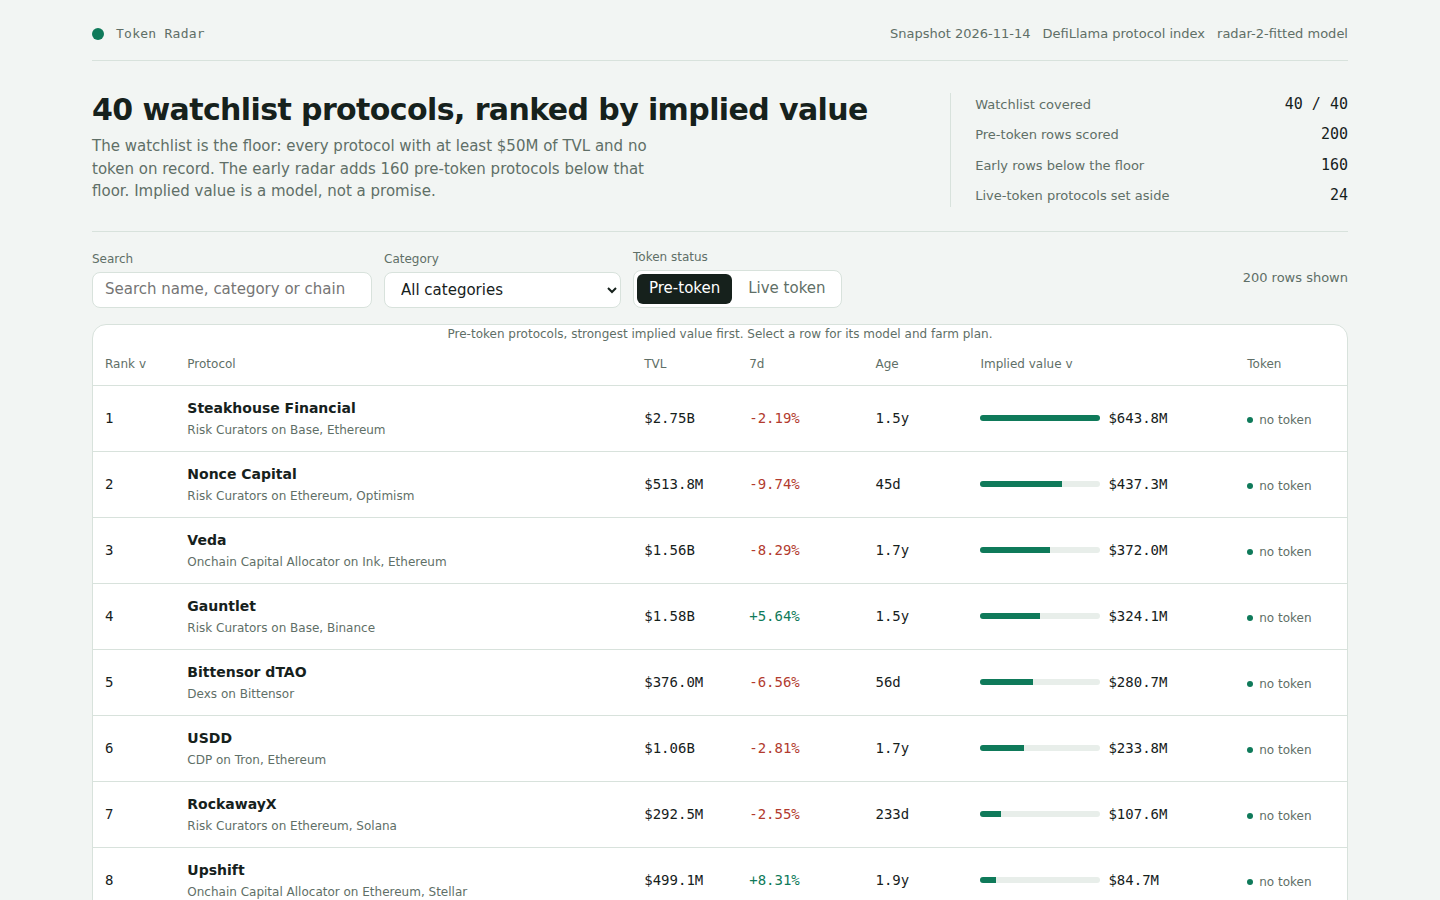
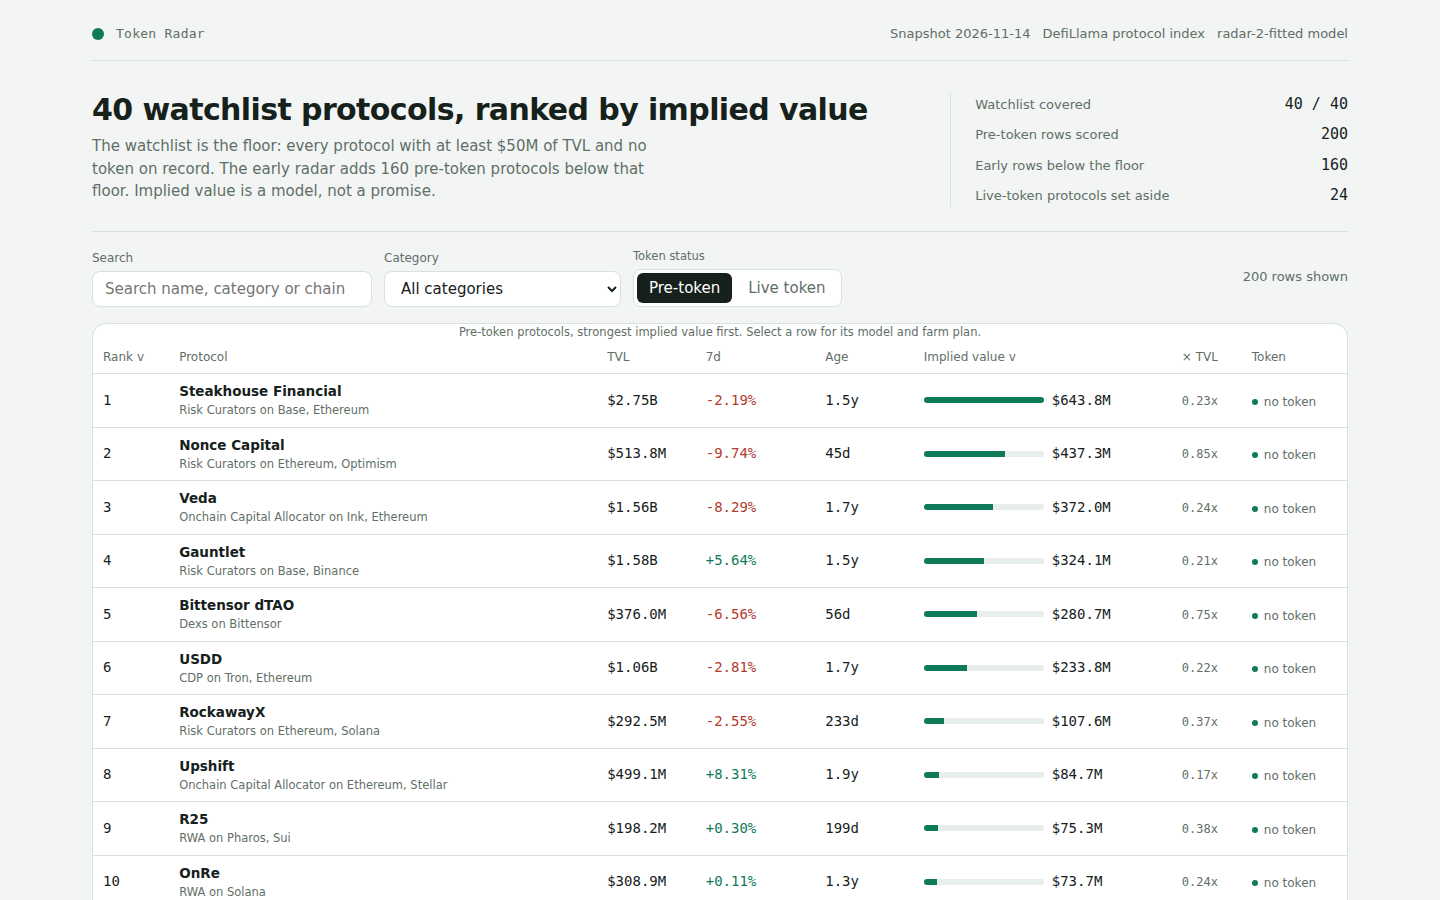
iteration 3: log-log scatter panel, x TVL column, compact rows, 4 screenshots incl. tools/screenshots.py

diff --git a/dashboard/app.js b/dashboard/app.js
@@ -209,6 +209,77 @@
     );
   }
 
+  // Log-log scatter: every board row's TVL against its implied value, with guide lines for whole
+  // TVL multiples (0.1x, 0.3x, 1x, 3x). Drawn from the same rows the table shows, so the picture
+  // and the numbers cannot disagree. Watchlist rows sit above the $50M floor; early rows below.
+  function scatterChart() {
+    var NS = 'http://www.w3.org/2000/svg';
+    function svgEl(tag, attrs) {
+      var n = document.createElementNS(NS, tag);
+      Object.keys(attrs || {}).forEach(function (k) { n.setAttribute(k, attrs[k]); });
+      return n;
+    }
+    var W = 1240, H = 340, ML = 64, MR = 16, MT = 14, MB = 40;
+    var pts = DATA.rows.filter(function (r) { return r.tvl_usd > 0 && r.implied_value_usd > 0; });
+    var xmin = Infinity, xmax = -Infinity, ymin = Infinity, ymax = -Infinity;
+    pts.forEach(function (r) {
+      var x = Math.log10(r.tvl_usd), y = Math.log10(r.implied_value_usd);
+      if (x < xmin) xmin = x; if (x > xmax) xmax = x;
+      if (y < ymin) ymin = y; if (y > ymax) ymax = y;
+    });
+    xmin = Math.floor(xmin); xmax = Math.ceil(xmax); ymin = Math.floor(ymin); ymax = Math.ceil(ymax);
+    function X(v) { return ML + (Math.log10(v) - xmin) / (xmax - xmin) * (W - ML - MR); }
+    function Y(v) { return H - MB - (Math.log10(v) - ymin) / (ymax - ymin) * (H - MT - MB); }
+    var svg = svgEl('svg', { viewBox: '0 0 ' + W + ' ' + H, role: 'img', 'aria-label': 'Scatter of TVL against implied value, log scale' });
+    // grid + tick labels per decade
+    for (var d = xmin; d <= xmax; d++) {
+      var v = Math.pow(10, d);
+      svg.appendChild(svgEl('line', { x1: X(v), y1: MT, x2: X(v), y2: H - MB, stroke: 'var(--border)', 'stroke-width': 1 }));
+      var t = svgEl('text', { x: X(v), y: H - MB + 16, 'text-anchor': 'middle', 'font-size': 11, fill: 'var(--muted)' });
+      t.textContent = '$' + (v >= 1e9 ? v / 1e9 + 'B' : v >= 1e6 ? v / 1e6 + 'M' : v / 1e3 + 'K');
+      svg.appendChild(t);
+    }
+    for (var e = ymin; e <= ymax; e++) {
+      var ev = Math.pow(10, e);
+      svg.appendChild(svgEl('line', { x1: ML, y1: Y(ev), x2: W - MR, y2: Y(ev), stroke: 'var(--border)', 'stroke-width': 1 }));
+      var t2 = svgEl('text', { x: ML - 6, y: Y(ev) + 4, 'text-anchor': 'end', 'font-size': 11, fill: 'var(--muted)' });
+      t2.textContent = '$' + (ev >= 1e9 ? ev / 1e9 + 'B' : ev >= 1e6 ? ev / 1e6 + 'M' : ev / 1e3 + 'K');
+      svg.appendChild(t2);
+    }
+    // multiple guide lines: implied = k x TVL
+    [0.1, 0.3, 1, 3].forEach(function (k) {
+      var yTop = Math.pow(10, ymin) * k, yBot = Math.pow(10, ymax) * k;
+      var x1 = Math.pow(10, xmin), x2 = Math.pow(10, xmax);
+      // draw only where inside the box: clip by recomputing endpoints on the visible y-range
+      var lo = Math.max(ymin, Math.log10(k * Math.pow(10, xmin)));
+      var hi = Math.min(ymax, Math.log10(k * Math.pow(10, xmax)));
+      if (hi <= lo) return;
+      var px1 = X(Math.pow(10, lo - Math.log10(k))), px2 = X(Math.pow(10, hi - Math.log10(k)));
+      svg.appendChild(svgEl('line', { x1: px1, y1: Y(Math.pow(10, lo)), x2: px2, y2: Y(Math.pow(10, hi)), stroke: 'var(--muted)', 'stroke-dasharray': '4 4', 'stroke-width': 1, opacity: 0.6 }));
+      var lab = svgEl('text', { x: px2 - 4, y: Y(Math.pow(10, hi)) - 4, 'text-anchor': 'end', 'font-size': 10, fill: 'var(--muted)' });
+      lab.textContent = k + 'x TVL';
+      svg.appendChild(lab);
+    });
+    pts.forEach(function (r) {
+      var onList = r.tvl_usd >= DATA.floor_usd;
+      svg.appendChild(svgEl('circle', {
+        cx: X(r.tvl_usd), cy: Y(r.implied_value_usd), r: r.rank <= 10 ? 5 : 3,
+        fill: onList ? 'var(--accent)' : 'color-mix(in srgb, var(--muted) 55%, transparent)',
+        opacity: onList ? 0.9 : 0.7
+      }));
+    });
+    return el('section', { class: 'panel scatter' },
+      el('h2', { text: 'The board in one picture' }),
+      el('p', { class: 'sub', text: 'Every row plotted, TVL against implied value on log scales. The dashed guides are whole TVL multiples, so a point\u2019s height over its TVL is the model\u2019s multiple. Filled dots are watchlist protocols above the $' + Math.round(DATA.floor_usd / 1e6) + 'M floor; grey dots are the early radar below it.' }),
+      svg,
+      el('div', { class: 'legend' },
+        el('span', null, el('i', { style: 'background: var(--accent)' }), 'Watchlist (TVL \u2265 floor)'),
+        el('span', null, el('i', { style: 'background: color-mix(in srgb, var(--muted) 55%, transparent)' }), 'Early radar (below the floor)'),
+        el('span', { text: 'Larger dots: current top 10' })
+      )
+    );
+  }
+
   function boardTable() {
     var list = sortedRows(rows());
     if (list.length === 0) {
@@ -241,6 +312,7 @@
           el('div', { class: 'bar', 'aria-hidden': 'true' }, el('i', { style: 'width:' + Math.max(3, Math.round((r.implied_value_usd / max) * 100)) + '%' })),
           el('span', { class: 'num', text: fmtUsd(r.implied_value_usd) })
         )),
+        el('td', null, el('span', { class: 'mult num', text: (r.implied_value_usd / r.tvl_usd).toFixed(2) + 'x', title: 'Implied value as a multiple of TVL' })),
         el('td', null, el('span', { class: 'status', text: 'no token' }))
       );
       tbody.appendChild(tr);
@@ -256,6 +328,7 @@
             sortHeader('growth', '7d'),
             sortHeader('age', 'Age'),
             sortHeader('implied', 'Implied value'),
+            el('th', { scope: 'col', title: 'Implied value as a multiple of TVL', text: '\u00d7 TVL' }),
             el('th', { scope: 'col', text: 'Token' })
           )),
           tbody
@@ -376,6 +449,7 @@
     shell.appendChild(lede());
     shell.appendChild(controls());
     shell.appendChild(state.tab === 'pre-token' ? boardTable() : liveTable());
+    if (state.tab === 'pre-token') shell.appendChild(scatterChart());
     if (state.tab === 'pre-token') shell.appendChild(alertsPanel());
     if (state.tab === 'pre-token') shell.appendChild(modelPanel());
     app.appendChild(shell);

diff --git a/dashboard/app.css b/dashboard/app.css
@@ -78,7 +78,7 @@ a { color: var(--accent); }
 .panel { background: var(--surface); border: 1px solid var(--border); border-radius: var(--radius-panel); overflow: hidden; }
 .table-wrap { overflow-x: auto; }
 table { width: 100%; border-collapse: collapse; font-size: 14px; }
-th, td { padding: var(--step-3) var(--step-3); border-bottom: 1px solid var(--border); text-align: left; vertical-align: middle; }
+th, td { padding: 7px 10px; border-bottom: 1px solid var(--border); text-align: left; vertical-align: middle; }
 th { color: var(--muted); font-size: 12px; font-weight: 500; white-space: nowrap; }
 th button { display: inline-flex; align-items: center; gap: var(--step-1); border: 0; background: none; padding: 0; color: inherit; font: inherit; }
 th button:hover { color: var(--ink); }
@@ -86,9 +86,9 @@ tbody tr { cursor: pointer; }
 tbody tr:hover { background: var(--surface); }
 tbody tr[data-selected="true"] { background: color-mix(in srgb, var(--accent) 8%, var(--surface)); }
 .num { font-family: var(--font-num); font-variant-numeric: tabular-nums; white-space: nowrap; }
-.name { display: grid; gap: 2px; }
-.name b { font-weight: 600; }
-.sub { color: var(--muted); font-size: 12px; }
+.name { display: grid; gap: 1px; }
+.name b { font-weight: 600; font-size: 13.5px; }
+.sub { color: var(--muted); font-size: 11.5px; }
 .pos { color: var(--accent); }
 .neg { color: var(--negative); }
 .bar { width: 120px; height: 6px; border-radius: 3px; background: color-mix(in srgb, var(--border) 60%, var(--surface)); overflow: hidden; }
@@ -98,6 +98,11 @@ tbody tr[data-selected="true"] { background: color-mix(in srgb, var(--accent) 8%
 .status::before { content: ""; width: 6px; height: 6px; border-radius: 50%; background: var(--accent); }
 
 .model { margin-top: var(--step-4); padding: var(--step-5); display: grid; gap: var(--step-3); }
+.scatter { margin-top: var(--step-4); padding: var(--step-5); display: grid; gap: var(--step-3); }
+.scatter svg { width: 100%; height: auto; display: block; }
+.scatter .legend { display: flex; flex-wrap: wrap; gap: var(--step-4); color: var(--muted); font-size: 12px; }
+.scatter .legend i { display: inline-block; width: 9px; height: 9px; border-radius: 50%; margin-right: 6px; vertical-align: -1px; }
+.mult { color: var(--muted); font-size: 12px; }
 .alerts { margin-top: var(--step-4); padding: var(--step-5); display: grid; gap: var(--step-3); }
 .alert-list { list-style: none; margin: 0; padding: 0; display: grid; gap: var(--step-2); }
 .alert .alert-open { display: grid; grid-template-columns: auto auto 1fr; gap: var(--step-2); align-items: baseline; width: 100%; text-align: left; background: none; border: 1px solid var(--line, #ddd); border-radius: 8px; padding: var(--step-2) var(--step-3); cursor: pointer; font: inherit; color: inherit; }

diff --git a/tools/screenshots.py b/tools/screenshots.py
@@ -1,0 +1,70 @@
+"""Regenerate the three judge-facing screenshots from the built dashboard.
+
+Runs headless chromium against out/dashboard over a local static server (the dashboard itself is
+offline: no request leaves the page). Three 1440x900 shots: the board top, one protocol's detail
+drawer, and the alerts panel with the model explanation.
+
+    python tools/screenshots.py            # writes screenshots/1-board.png ...
+"""
+import http.server
+import os
+import socketserver
+import sys
+import threading
+from functools import partial
+
+from playwright.sync_api import sync_playwright
+
+ROOT = os.path.dirname(os.path.dirname(os.path.abspath(__file__)))
+OUT = os.path.join(ROOT, "out")
+DEST = os.path.join(ROOT, "screenshots")
+PORT = 8799
+
+
+def serve():
+    handler = partial(http.server.SimpleHTTPRequestHandler, directory=OUT)
+    httpd = socketserver.TCPServer(("127.0.0.1", PORT), handler)
+    threading.Thread(target=httpd.serve_forever, daemon=True).start()
+    return httpd
+
+
+def main():
+    os.makedirs(DEST, exist_ok=True)
+    httpd = serve()
+    try:
+        with sync_playwright() as p:
+            browser = p.chromium.launch()
+            page = browser.new_page(viewport={"width": 1440, "height": 900}, device_scale_factor=1)
+            page.goto(f"http://127.0.0.1:{PORT}/dashboard/index.html")
+            page.wait_for_selector("table tbody tr", timeout=15000)
+            page.wait_for_timeout(400)
+
+            page.screenshot(path=os.path.join(DEST, "1-board.png"))
+
+            page.click("table tbody tr:first-child")
+            page.wait_for_selector("dialog[open] .detail-head h2", timeout=10000)
+            page.wait_for_timeout(400)
+            page.screenshot(path=os.path.join(DEST, "2-detail.png"))
+            page.click("dialog .close")
+            page.wait_for_timeout(300)
+
+            page.evaluate("document.querySelector('.scatter').scrollIntoView({block:'start'})")
+            page.evaluate("window.scrollBy(0, -70)")
+            page.wait_for_timeout(400)
+            page.screenshot(path=os.path.join(DEST, "3-chart.png"))
+
+            page.evaluate("document.querySelector('.alerts').scrollIntoView({block:'start'})")
+            page.evaluate("window.scrollBy(0, -70)")
+            page.wait_for_timeout(400)
+            page.screenshot(path=os.path.join(DEST, "4-alerts-model.png"))
+            browser.close()
+    finally:
+        httpd.shutdown()
+
+    for name in sorted(os.listdir(DEST)):
+        path = os.path.join(DEST, name)
+        print(f"{name}: {os.path.getsize(path) // 1024} KiB")
+
+
+if __name__ == "__main__":
+    sys.exit(main())

diff --git a/DESIGN.md b/DESIGN.md
@@ -35,7 +35,14 @@ via vendor buildDossier.
   and the full farm plan; text addressed to the judge (methodology panel). Keep source <64 KB.
 - **W4**: real screenshots (headless chromium, 1440×900, 300–350 KiB each — must be generated
   during a recorded session), dossier regenerated, gate self-check, README badges.
-- **W5**: transcript bundle flags, GitHub repo polish (About, topics), dry-run `check`, submit
+- **W5**: iteration 3 dashboard pass: compact rows (more protocols per view), a new "x TVL" column
+  (implied value as a multiple of TVL, so the model's pricing is visible per row), and a log-log
+  scatter panel "The board in one picture" (every row plotted, TVL against implied value, dashed
+  guides at 0.1x/0.3x/1x/3x TVL, watchlist vs early-radar dots) — drawn from the same rows the table
+  shows. Screenshots now 4: board, detail, chart, alerts+model, regenerated via
+  tools/screenshots.py. A TVL-elasticity fit term was prototyped and rejected: holdout error barely
+  moved (86.8% vs 87.5% median), so the honest 3-coefficient fit stays.
+- **W6**: transcript bundle flags, GitHub repo polish (About, topics), dry-run `check`, submit
   with second-eye approval before 2026-12-14T10:00Z.
 
 ## Risks

diff --git a/CHECKLIST.md b/CHECKLIST.md
@@ -9,7 +9,7 @@ Scoring: AI judge compares dashboards pairwise (screenshots + source via dossier
 - [x] sorted_by_value: ranks exactly 1..N; implied_value non-increasing by rank; not all-equal values — verified
 - [x] coverage: **all 40 watchlist slugs present** (watchlist is floor, not ceiling — ≥60 more rows needed) — verified: 40/40, 200 rows
 - [x] farm_steps validity (above) — concrete steps with cost + time — verified
-- [x] `screenshots/`: 3–4 PNG/JPEG, ≤512 KiB each, long side ≤1440, short side ≥800; **target 300–350 KiB each** — verified: 3 PNGs 144–218 KiB, 1440×900, regenerated from the fitted board
+- [x] `screenshots/`: 3–4 PNG/JPEG, ≤512 KiB each, long side ≤1440, short side ≥800 — verified: 4 PNGs (1-board, 2-detail, 3-chart, 4-alerts-model), 131–224 KiB, 1440×900, regenerated from the fitted board via tools/screenshots.py
 - [x] `dossier.json`: byte-exact `buildDossier('/output', {text_max_bytes: 65536})` output, ≤1.5 MiB — verified: 908 KB
 
 ## Judge criteria (priority order)

diff --git a/README.md b/README.md
@@ -28,6 +28,16 @@ the dashboard's methodology panel). Every figure comes from the snapshot itself,
 lists. When the snapshot carries too few anchors, the house constants of radar-1 take over.
 See DESIGN.md for the full design and iteration plan.
 
+## Dashboard
+
+`dashboard/` is one static page, no network calls: a sortable, filterable ranked board (search,
+category filter, pre-token / live-token tabs), a log-log scatter of TVL against implied value with
+whole-TVL multiple guides (`app.js` draws the SVG from the same rows the table shows), a per-protocol
+detail drawer that recomputes the model from the snapshot figures and shows the farm plan, an alerts
+panel (TVL surges, fresh launches under 45 days, out-of-floor movers into the top 50) and a
+methodology panel. The four judge screenshots are regenerated from the built page with
+`python tools/screenshots.py` (headless chromium, 1440x900).
+
 ## License
 
 MIT.
